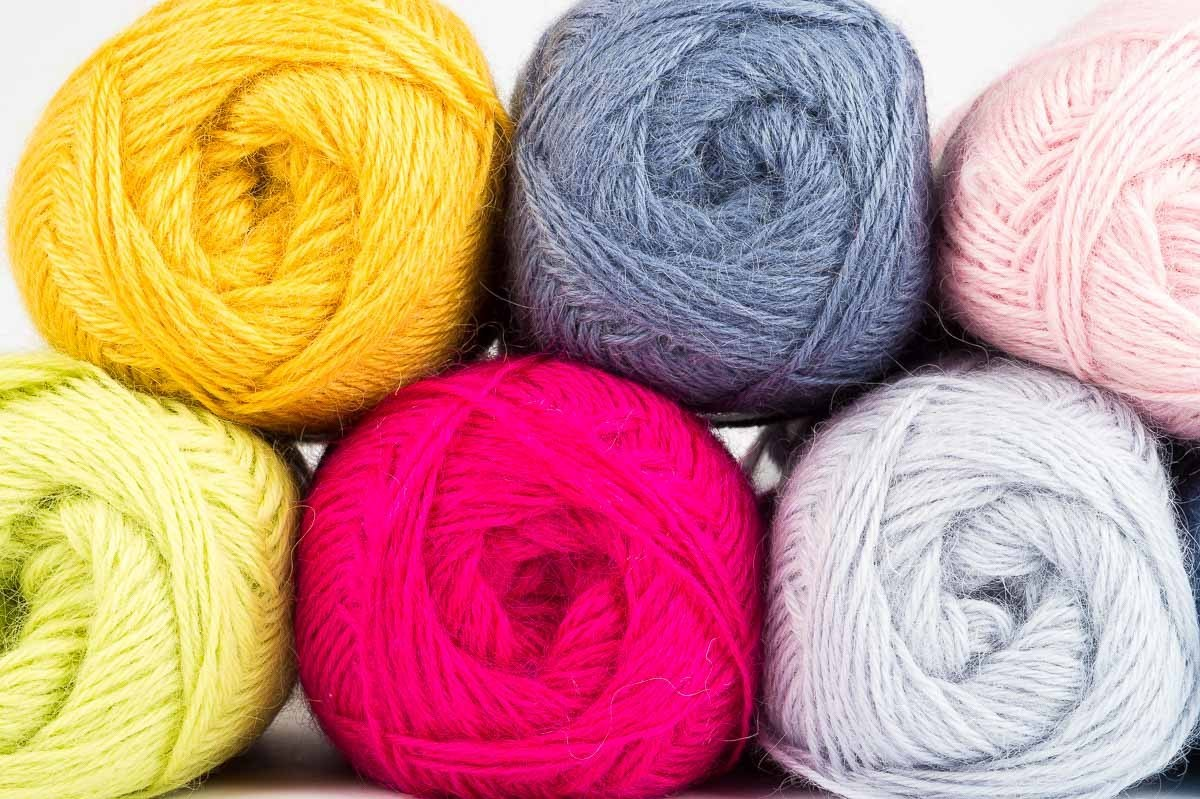
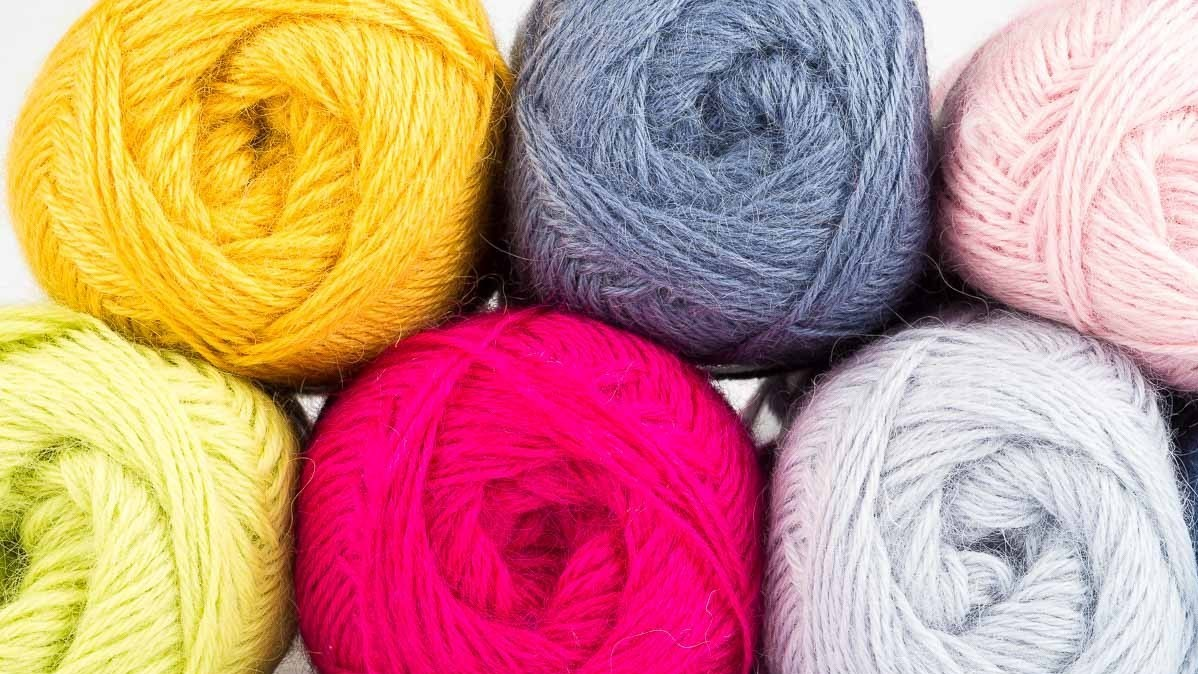
Events page edits & Image edits
Edits to Events page
Re-sizing carousel images

diff --git a/events.html b/events.html
@@ -19,9 +19,9 @@
 
   <div class="nav">
     <ul>
-       <li><span class="nav-li-text">Knitting</span></li>
-       <li><span class="nav-li-text">Yarn</span></li>
-       <li><span class="nav-li-text">Tools</span></li>
+       <li><span class="nav-li-text">Home</span></li>
+       <li><span class="nav-li-text">Products</span></li>
+       <li><span class="nav-li-text">Events</span></li>
        <li><a href="about_us.html"><span class="nav-li-text">About Us</span></a></li>
        <li><a href="#contact"><span class="nav-li-text">Contact</span></a></li>
     </ul>
@@ -35,18 +35,29 @@
 </div>
 </div>
 
-  <div id="carouselExampleControls" class="carousel slide" data-ride="carousel">
+<!-- Start of Carousel -->
+<div id="carouselExampleIndicators" class="carousel slide" data-ride="carousel">
+  <ol class="carousel-indicators">
+    <li data-target="#carouselExampleIndicators" data-slide-to="0" class="active"></li>
+    <li data-target="#carouselExampleIndicators" data-slide-to="1"></li>
+    <li data-target="#carouselExampleIndicators" data-slide-to="2"></li>
+  </ol>
   <div class="carousel-inner">
     <div class="carousel-item active">
-      <a href="./about_us.html"><img src="images/index1.jpg" class="d-block w-100" alt="Balls of yarn">
-      </a>
+      <img src="./images/EventsImage1.jpg" class="d-block w-100" alt="Unravel">
+    </div>
+    <div class="carousel-item">
+      <img src="./images/EventsImage2.jpg" class="d-block w-100" alt="Edinburgh Yarn Fest">
+    </div>
+    <div class="carousel-item">
+      <img src="..." class="d-block w-100" alt="...">
     </div>
   </div>
-  <a class="carousel-control-prev" href="#carouselExampleControls" role="button" data-slide="prev">
+  <a class="carousel-control-prev" href="#carouselExampleIndicators" role="button" data-slide="prev">
     <span class="carousel-control-prev-icon" aria-hidden="true"></span>
     <span class="sr-only">Previous</span>
   </a>
-  <a class="carousel-control-next" href="#carouselExampleControls" role="button" data-slide="next">
+  <a class="carousel-control-next" href="#carouselExampleIndicators" role="button" data-slide="next">
     <span class="carousel-control-next-icon" aria-hidden="true"></span>
     <span class="sr-only">Next</span>
   </a>
